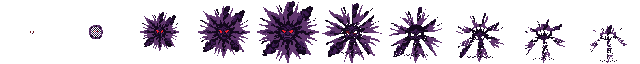
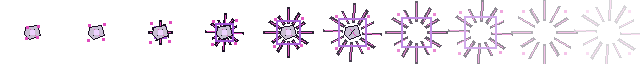
feat(art): redesign sal curse talisman family

diff --git a/asset/build_consistency_assets.py b/asset/build_consistency_assets.py
@@ -1,0 +1,269 @@
+"""Build the owner-directed weapon consistency art pass.
+
+All art is drawn on the native pixel grid with Pillow primitives.  There is
+no resampling except the intentional nearest-neighbour scale-up used by the
+512px inventory icons, so exported edges stay hard and palette-controlled.
+
+Run one review group at a time, for example::
+
+    python asset/build_consistency_assets.py --group 1
+"""
+from __future__ import annotations
+
+import argparse
+import math
+from pathlib import Path
+
+from PIL import Image, ImageDraw
+
+
+ROOT = Path(__file__).resolve().parent
+TRAVEL = ROOT / "weapon" / "travel"
+EFFECT = ROOT / "effect"
+ICONS = ROOT / "ui" / "weapon_icons"
+
+TRANSPARENT = (0, 0, 0, 0)
+CURSE_INK = (25, 14, 35, 255)
+CURSE_DEEP = (53, 27, 76, 255)
+CURSE_MID = (93, 48, 135, 255)
+CURSE_BRIGHT = (161, 83, 214, 255)
+CURSE_MAGENTA = (224, 75, 189, 255)
+CURSE_CORE = (238, 208, 255, 255)
+PAPER_SHADOW = (91, 79, 105, 255)
+PAPER = (160, 147, 170, 255)
+PAPER_LIGHT = (201, 190, 211, 255)
+
+
+def _new(size: tuple[int, int]) -> Image.Image:
+    return Image.new("RGBA", size, TRANSPARENT)
+
+
+def _draw_curse_projectile(
+    image: Image.Image,
+    origin: tuple[int, int],
+    frame: int,
+    evolved: bool,
+) -> None:
+    """One 36px projectile cell: torn charm plus angular ghost-script wake.
+
+    Sal and Gwisal intentionally share every opaque silhouette coordinate.
+    Evolution changes the internal palette and energy marks, never the body.
+    """
+    d = ImageDraw.Draw(image)
+    ox, oy = origin
+    bob = (0, -1, 0, 1)[frame]
+    y = oy + bob
+
+    # Three separated, angular smoke ribbons.  Their broken construction keeps
+    # them reading as drifting calligraphy, not arms or tentacles.
+    smoke = CURSE_MID if not evolved else CURSE_BRIGHT
+    smoke_hi = CURSE_BRIGHT if not evolved else CURSE_MAGENTA
+    ribbons = [
+        [(2, 16), (5, 13), (10, 14), (14, 11), (17, 13), (13, 16), (8, 16), (5, 19)],
+        [(1, 22), (5, 19), (10, 20), (14, 18), (17, 20), (12, 23), (7, 22), (4, 25)],
+        [(5, 9), (8, 7), (12, 9), (16, 7), (18, 10), (13, 12), (9, 11)],
+    ]
+    for index, points in enumerate(ribbons):
+        shifted = [(ox + x, y + py) for x, py in points]
+        d.polygon(shifted, fill=CURSE_INK)
+        inner = [(x + (1 if index != 1 else 0), py) for x, py in shifted[1:-1]]
+        if len(inner) >= 3:
+            d.line(inner, fill=smoke, width=2)
+    # Square-edged brush/glyph flecks animate but occupy the same outer bounds.
+    glyphs = (
+        ((5, 12), (9, 25), (13, 5)),
+        ((3, 11), (8, 26), (14, 6)),
+        ((4, 8), (10, 25), (15, 14)),
+        ((2, 15), (8, 7), (14, 26)),
+    )[frame]
+    for i, (gx, gy) in enumerate(glyphs):
+        color = smoke_hi if i == 0 or evolved else smoke
+        d.rectangle([ox + gx, y + gy, ox + gx + 1, y + gy + 1], fill=color)
+
+    # Torn hanji charm: shared outline silhouette, pointed only by its folded
+    # leading corner.  The left edge is ragged like a ripped paper fragment.
+    charm = [
+        (14, 11), (17, 9), (29, 10), (33, 15), (30, 20), (18, 22),
+        (15, 20), (16, 18), (14, 16), (16, 14),
+    ]
+    charm = [(ox + x, y + py) for x, py in charm]
+    d.polygon(charm, fill=PAPER_SHADOW, outline=CURSE_INK)
+    inner_paper = [
+        (17, 11), (28, 12), (31, 15), (29, 18), (18, 20),
+        (17, 18), (18, 16), (17, 14),
+    ]
+    d.polygon([(ox + x, y + py) for x, py in inner_paper], fill=PAPER if not evolved else PAPER_LIGHT)
+    # Fold/highlight and compact abstract ghost-writing.
+    fold = CURSE_MID if not evolved else CURSE_MAGENTA
+    d.line([ox + 28, y + 12, ox + 28, y + 18], fill=fold)
+    d.line([ox + 29, y + 13, ox + 31, y + 15], fill=fold)
+    d.line([ox + 20, y + 13, ox + 25, y + 13], fill=CURSE_INK)
+    d.line([ox + 22, y + 13, ox + 22, y + 18], fill=CURSE_INK)
+    d.line([ox + 19, y + 16, ox + 25, y + 16], fill=CURSE_INK)
+    d.point((ox + 24, y + 18), fill=CURSE_INK)
+    if evolved:
+        d.point((ox + 26, y + 15), fill=CURSE_CORE)
+        d.point((ox + 11, y + 14), fill=CURSE_CORE)
+
+
+def _build_curse_travel(evolved: bool) -> Image.Image:
+    strip = _new((144, 36))
+    for frame in range(4):
+        _draw_curse_projectile(strip, (frame * 36, 0), frame, evolved)
+    return strip
+
+
+def _draw_curse_icon_base(evolved: bool) -> Image.Image:
+    """128px logical icon, exported 4x with nearest-neighbour pixels."""
+    image = _new((128, 128))
+    d = ImageDraw.Draw(image)
+    smoke = CURSE_MID if not evolved else CURSE_BRIGHT
+    smoke_hi = CURSE_BRIGHT if not evolved else CURSE_MAGENTA
+
+    # Large, separated brush-smoke bands behind a single torn charm.  Both
+    # evolution stages use identical shapes and differ only in energy fills.
+    bands = [
+        # One broad, stepped plume rather than limb-like separate tendrils.
+        [(4, 74), (15, 58), (10, 45), (29, 44), (36, 29), (51, 37),
+         (66, 26), (73, 43), (62, 57), (69, 70), (53, 82), (38, 76),
+         (25, 91), (12, 89)],
+        # Two short broken brush marks sell drifting script without changing
+        # the main plume into a creature silhouette.
+        [(18, 24), (27, 17), (39, 23), (34, 29), (24, 29)],
+        [(19, 99), (30, 92), (43, 96), (37, 103), (26, 106)],
+    ]
+    for points in bands:
+        d.polygon(points, fill=CURSE_INK)
+        # One flat interior stripe, inset by a few native pixels.
+        middle = points[1:-1]
+        d.line(middle, fill=smoke, width=5)
+        if len(middle) > 3:
+            d.line(middle[1:-1], fill=smoke_hi, width=2)
+
+    charm = [
+        (48, 39), (58, 31), (101, 35), (121, 62), (104, 91), (59, 96),
+        (47, 88), (52, 78), (45, 68), (52, 57),
+    ]
+    d.polygon(charm, fill=PAPER_SHADOW, outline=CURSE_INK, width=3)
+    inner = [
+        (57, 40), (96, 42), (111, 62), (99, 82), (62, 87),
+        (55, 82), (59, 71), (53, 63), (60, 51),
+    ]
+    d.polygon(inner, fill=PAPER if not evolved else PAPER_LIGHT)
+    d.line([94, 43, 94, 83], fill=smoke_hi, width=3)
+    d.line([95, 45, 111, 62, 96, 80], fill=smoke_hi, width=3)
+
+    # Abstract brush glyph: deliberately not a readable text character at UI
+    # scale, but unmistakably ink writing on paper.
+    for line in (
+        (66, 47, 85, 47), (75, 46, 75, 77), (62, 59, 87, 59),
+        (66, 72, 84, 72), (65, 80, 73, 73), (82, 71, 89, 80),
+    ):
+        d.line(line, fill=CURSE_INK, width=3)
+    d.rectangle([78, 53, 81, 56], fill=smoke_hi)
+    if evolved:
+        d.rectangle([82, 61, 86, 65], fill=CURSE_CORE)
+        d.rectangle([28, 39, 31, 42], fill=CURSE_CORE)
+        d.rectangle([21, 91, 24, 94], fill=CURSE_MAGENTA)
+
+    # Sparse, square glyph sparks.  The base has the same bounded silhouette;
+    # upgraded colors make them flare without introducing a new creature form.
+    flecks = [(16, 37), (11, 73), (29, 104), (43, 16), (109, 25), (117, 100)]
+    for index, (x, y) in enumerate(flecks):
+        color = smoke_hi if evolved or index % 2 == 0 else smoke
+        d.rectangle([x, y, x + 2, y + 2], fill=color)
+    return image
+
+
+def _build_curse_icon(evolved: bool) -> Image.Image:
+    return _draw_curse_icon_base(evolved).resize((512, 512), Image.Resampling.NEAREST)
+
+
+def _draw_block_ray(
+    d: ImageDraw.ImageDraw,
+    cx: int,
+    cy: int,
+    angle: float,
+    inner: float,
+    outer: float,
+    color: tuple[int, int, int, int],
+    width: int,
+) -> None:
+    x1 = round(cx + math.cos(angle) * inner)
+    y1 = round(cy + math.sin(angle) * inner)
+    x2 = round(cx + math.cos(angle) * outer)
+    y2 = round(cy + math.sin(angle) * outer)
+    d.line([x1, y1, x2, y2], fill=color, width=width)
+
+
+def _build_curse_hit(evolved: bool) -> Image.Image:
+    frames = 10
+    cell = 64
+    strip = _new((frames * cell, cell))
+    for frame in range(frames):
+        d = ImageDraw.Draw(strip)
+        cx = frame * cell + cell // 2
+        cy = cell // 2
+        # Fast ignition, broad middle burst, then sparse ghost-script decay.
+        growth = (2, 6, 12, 19, 25, 29, 31, 32, 33, 34)[frame]
+        strength = (255, 255, 255, 255, 235, 205, 170, 125, 85, 45)[frame]
+        outer = (*((CURSE_BRIGHT if not evolved else CURSE_MAGENTA)[:3]), strength)
+        inner = (*((CURSE_MID if not evolved else CURSE_BRIGHT)[:3]), strength)
+        for index in range(12):
+            angle = math.tau * index / 12 + (frame % 2) * 0.07
+            reach = growth - (index % 3) * 3
+            _draw_block_ray(d, cx, cy, angle, max(2, growth * 0.35), reach, CURSE_INK[:-1] + (strength,), 3)
+            _draw_block_ray(d, cx, cy, angle, max(3, growth * 0.42), max(3, reach - 2), outer, 1)
+        radius = max(1, growth // 2)
+        if frame < 8:
+            d.rectangle([cx - radius, cy - radius, cx + radius, cy + radius], outline=inner, width=2)
+        if frame < 6:
+            # Rotating paper shard at the impact core.
+            shard = [
+                (cx - 7, cy - 5), (cx + 5, cy - 7), (cx + 8, cy + 3),
+                (cx - 3, cy + 7), (cx - 8, cy + 2),
+            ]
+            d.polygon(shard, fill=PAPER if not evolved else PAPER_LIGHT, outline=CURSE_INK)
+            d.line([cx - 2, cy - 3, cx + 3, cy + 3], fill=CURSE_MID if not evolved else CURSE_MAGENTA)
+            d.line([cx + 2, cy - 3, cx - 3, cy + 3], fill=CURSE_INK)
+        # Square glyph motes at fixed compass offsets, increasingly separated.
+        for index in range(4):
+            angle = math.tau * index / 4 + math.pi / 4
+            dist = min(29, 7 + frame * 3 + index % 2)
+            x = round(cx + math.cos(angle) * dist)
+            y = round(cy + math.sin(angle) * dist)
+            d.rectangle([x - 1, y - 1, x + 1, y + 1], fill=outer)
+        if evolved and frame < 5:
+            d.rectangle([cx - 2, cy - 2, cx + 2, cy + 2], fill=CURSE_CORE)
+    return strip
+
+
+def build_group_1() -> list[Path]:
+    outputs = {
+        TRAVEL / "sal.png": _build_curse_travel(False),
+        TRAVEL / "gwisal.png": _build_curse_travel(True),
+        ICONS / "sal.png": _build_curse_icon(False),
+        ICONS / "gwisal.png": _build_curse_icon(True),
+        EFFECT / "hit_sal.png": _build_curse_hit(False),
+        EFFECT / "hit_gwisal.png": _build_curse_hit(True),
+    }
+    for path, image in outputs.items():
+        path.parent.mkdir(parents=True, exist_ok=True)
+        image.save(path)
+    return list(outputs)
+
+
+GROUPS = {1: build_group_1}
+
+
+def main() -> None:
+    parser = argparse.ArgumentParser()
+    parser.add_argument("--group", type=int, choices=GROUPS, required=True)
+    args = parser.parse_args()
+    for output in GROUPS[args.group]():
+        with Image.open(output) as image:
+            print(output.relative_to(ROOT), image.size, image.mode)
+
+
+if __name__ == "__main__":
+    main()
